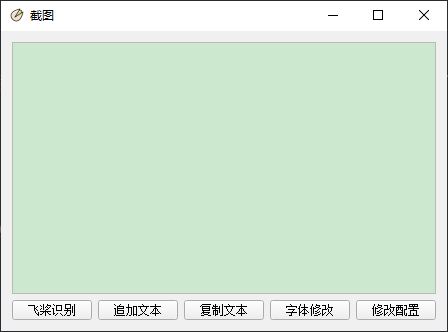
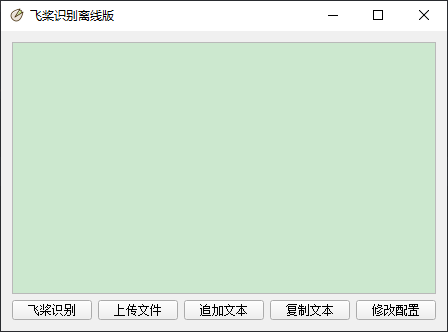
增加自动换行设置 增加上传图片识别，可以多选，但是无法保证顺序。因此单选依次追加比较准确。

diff --git a/pyqt_ocr.py b/pyqt_ocr.py
@@ -4,14 +4,20 @@ import pathlib
 import sys
 import traceback
 
-import keyboard
+# import keyboard
 from PyQt5.QtCore import Qt, pyqtSignal, QByteArray, QBuffer, QIODevice
 from PyQt5.QtGui import QPainter, QIcon, QPixmap, QPen, QColor, QCursor, QFont
-from PyQt5.QtWidgets import QApplication, QPushButton, QWidget, QVBoxLayout, QTextEdit, QAction, QMenu, QSystemTrayIcon, \
-    QHBoxLayout, QLabel, QLineEdit, QGridLayout, QFontDialog, QComboBox, QFileDialog
+from PyQt5.QtWidgets import QApplication, QPushButton, QWidget, QVBoxLayout, QTextEdit, QHBoxLayout, QLabel, QLineEdit, \
+    QGridLayout, QFontDialog, QComboBox, QFileDialog
 
 from ocr_paddle import get_content, init_paddleocr, get_model_config, VERSION, BASE_DIR, confirm_model_dir_url, \
     MODEL_URLS, DEFAULT_MODEL_VERSION
+
+
+def resource_path(relative_path):
+    """ Get absolute path to resource, works for dev and for PyInstaller """
+    base_path = getattr(sys, '_MEIPASS', os.path.dirname(os.path.abspath(__file__)))
+    return os.path.join(base_path, relative_path)
 
 
 class QPixmap2QByteArray(object):
@@ -32,21 +38,17 @@ class QPixmap2QByteArray(object):
         return byte_array
 
 
-def resource_path(relative_path):
-    """ Get absolute path to resource, works for dev and for PyInstaller """
-    base_path = getattr(sys, '_MEIPASS', os.path.dirname(os.path.abspath(__file__)))
-    return os.path.join(base_path, relative_path)
-
-
 class OcrWidget(QWidget):
     oksignal_content = pyqtSignal()
     oksignal_update_config = pyqtSignal()
 
     def __init__(self):
+        # QApplication.setQuitOnLastWindowClosed(False)  # 禁止默认的closed方法，只能使用qapp.quit()的方法退出程序
         super(OcrWidget, self).__init__()
         self.is_add = False
+        self.is_warp = False
         self.config_path = 'config.ini'
-        self.setWindowFlags(Qt.WindowStaysOnTopHint)
+        # self.setWindowFlags(Qt.WindowStaysOnTopHint)
         self.clipboard = QApplication.clipboard()
         self.lang_dict = dict(中文='ch', 中文服务端版='ch_server', 英文='en', 法文='french', 德文='german', 韩文='korean', 日文='japan',
                               中文繁体='chinese_cht', 泰卢固文='te', 卡纳达文='ka', 泰米尔文='ta', 拉丁文='latin', 阿拉伯字母='arabic',
@@ -64,8 +66,12 @@ class OcrWidget(QWidget):
             font = QFont(self.FONT, int(self.FONT_SIZE))
         self.textEdit.setFont(font)
 
+    def set_push_button(self, name, func):
+        btn = QPushButton(name, self)
+        btn.clicked[bool].connect(func)
+        return btn
+
     def init_ui(self):
-        # 窗口大小设置为600*500
         # self.setWindowFlags(Qt.WindowStaysOnTopHint)
         self.setWindowTitle("飞桨识别离线版")
         self.resize(400, 300)
@@ -73,22 +79,20 @@ class OcrWidget(QWidget):
         self.setWindowIcon(QIcon(image_path))
 
         hbox = QHBoxLayout()
-        self.btn = QPushButton('飞桨识别', self, clicked=self.click_btn)
-        self.btn3 = QPushButton('追加文本', self, clicked=self.click_btn3)
-        self.btn_copy = QPushButton('复制文本', self, clicked=self.click_btn_copy)
-        self.btn4 = QPushButton('修改配置', self, clicked=self.click_btn4)
-        self.btn5 = QPushButton('字体修改', self, clicked=self.click_btn5)
-
-        self.btn3.setCheckable(True)
-        # self.btn.clicked.connect(self.click_btn)
-        # self.btn.setShortcut('F4')  # 设置快捷键
-        hbox.addWidget(self.btn)
-        hbox.addWidget(self.btn3)
-        hbox.addWidget(self.btn_copy)
-        hbox.addWidget(self.btn5)
-        hbox.addWidget(self.btn4)
+        ocr_btn = self.set_push_button('飞桨识别', self.click_btn)
+        ocr_btn.setShortcut('F4')  # 设置快捷键
+        add_text_btn = self.set_push_button('追加文本', self.click_btn_add)
+        add_text_btn.setCheckable(True)
+        btn_list = [
+            ocr_btn,
+            self.set_push_button('上传文件', self.click_btn_file),
+            add_text_btn,
+            self.set_push_button('复制文本', self.click_btn_copy),
+            self.set_push_button('修改配置', self.click_btn_config)
+        ]
+        for btn in btn_list:
+            hbox.addWidget(btn)
         hbox.addStretch(1)
-
         vbox = QVBoxLayout()
         self.textEdit = QTextEdit(self)
         self.textEdit.setObjectName("textEdit")
@@ -97,30 +101,15 @@ class OcrWidget(QWidget):
         self.setLayout(vbox)
         self.oksignal_content.connect(lambda: self.set_text_content())
         self.oksignal_update_config.connect(lambda: self.read_config())
-        keyboard.add_hotkey('F4', self.btn.click)
-
-        # self.addSystemTray()  # 设置系统托盘
-
-    def addSystemTray(self):
-        minimizeAction = QAction("Mi&nimize", self, triggered=self.hide)
-        maximizeAction = QAction("Ma&ximize", self, triggered=self.showMaximized)
-        restoreAction = QAction("&Restore", self, triggered=self.showNormal)
-        quitAction = QAction("&Quit", self, triggered=self.close)
-        self.trayIconMenu = QMenu(self)
-        self.trayIconMenu.addAction(minimizeAction)
-        self.trayIconMenu.addAction(maximizeAction)
-        self.trayIconMenu.addAction(restoreAction)
-        self.trayIconMenu.addSeparator()
-        self.trayIconMenu.addAction(quitAction)
-        self.trayIcon = QSystemTrayIcon(self)
-        self.trayIcon.setIcon(QIcon("image\logo.ico"))
-        self.trayIcon.setContextMenu(self.trayIconMenu)
-        self.trayIcon.show()
+        # keyboard.add_hotkey('F5', ocr_btn.click)
 
     def set_text_content(self):
         if self.is_add:
             value = self.textEdit.toPlainText()
-            data = value + '\n' + self.screenshot.content
+            if self.is_warp:
+                data = value + '\n' + self.screenshot.content
+            else:
+                data = value + self.screenshot.content
         else:
             data = self.screenshot.content
         self.textEdit.setText(data)
@@ -128,32 +117,34 @@ class OcrWidget(QWidget):
         self.showNormal()
         self.click_btn_copy()
 
+    def click_btn_file(self):
+        directory = QFileDialog.getOpenFileNames(self, caption="选取多个文件", directory="C:/",
+                                                 filter="All Files (*);;JPEG Files(*.jpg);;PNG Files(*.png)")
+        content = self.textEdit.toPlainText() if self.is_add else ''
+        for path_index, img_path in enumerate(directory[0]):
+            if path_index == 0 and content == "":
+                content += get_content(img_path, self.ocr)
+            elif self.is_warp:
+                content += "\n" + get_content(img_path, self.ocr)
+            else:
+                content += get_content(img_path, self.ocr)
+        self.textEdit.setText(content)
+
     def click_btn(self):
         self.showMinimized()
         self.screenshot = ScreenShotsWin(self.oksignal_content, self)
         # self.screenshot.setWindowFlags(Qt.WindowStaysOnTopHint)
         self.screenshot.showFullScreen()
 
-    def click_btn3(self):
+    def click_btn_add(self):
         if self.is_add:
             self.is_add = False
         else:
             self.is_add = True
 
-    def click_btn4(self):
+    def click_btn_config(self):
         self.update_config = UpdateConfig(self.oksignal_update_config, self)
         self.update_config.show()
-
-    def click_btn5(self):
-        font, isok = QFontDialog.getFont(QFont(self.FONT, int(self.FONT_SIZE)), self)
-        if isok:
-            self.FONT = str(font.family())
-            self.FONT_SIZE = str(font.pointSize())
-            self.config.set("paddleocr", "FONT", self.FONT)
-            self.config.set("paddleocr", "FONT_SIZE", self.FONT_SIZE)
-            with open(self.config_path, "w+", encoding='utf8') as f:
-                self.config.write(f)
-            self.set_font(font)
 
     def click_btn_copy(self):
         value = self.textEdit.toPlainText()
@@ -171,7 +162,8 @@ class OcrWidget(QWidget):
                 f.write(f'DET_PATH = {det_path}\n')
                 f.write(f'REC_PATH = {rec_path}\n')
                 f.write('FONT = Arial\n')
-                f.write('FONT_SIZE = 12')
+                f.write('FONT_SIZE = 12\n')
+                f.write('WARP = 否')
 
     def read_config(self):
         if not os.path.isfile(self.config_path):
@@ -186,10 +178,15 @@ class OcrWidget(QWidget):
         cls_path = paddleocr['CLS_PATH']
         det_path = paddleocr['DET_PATH']
         rec_path = paddleocr['REC_PATH']
+        WARP = paddleocr['WARP']
         self.FONT = paddleocr['FONT']
         self.FONT_SIZE = paddleocr["FONT_SIZE"]
         self.ocr = init_paddleocr(lang=self.lang_dict.get(lang, 'ch'), cls_model_dir=cls_path, det_model_dir=det_path,
                                   rec_model_dir=rec_path)
+        if WARP == "是":
+            self.is_warp = True
+        else:
+            self.is_warp = False
         return self.ocr
 
     def download_path(self, model, lang):
@@ -305,6 +302,7 @@ class UpdateConfig(QWidget):
         self.setWindowFlags(Qt.WindowStaysOnTopHint)
         self.OcrWidget = OcrWidget
 
+        self.font = ''
         self.cls_path = ''
         self.det_path = ''
         self.rec_path = ''
@@ -318,48 +316,49 @@ class UpdateConfig(QWidget):
         self.setWindowIcon(QIcon(image_path))
         self.init_ui()
 
-    def btn_cls_choose_file(self):
-        self.cls_path = QFileDialog.getExistingDirectory(None, "选取文件夹", self.paddleocr.get('CLS_PATH') or "C:/")  # 起始路径
-        self.cls_file_btn.setText(self.cls_path)
-
-    def btn_det_choose_file(self):
-        self.det_path = QFileDialog.getExistingDirectory(None, "选取文件夹", self.paddleocr.get('DET_PATH') or "C:/")  # 起始路径
-        self.det_file_btn.setText(self.det_path)
-
-    def btn_rec_choose_file(self):
-        self.rec_path = QFileDialog.getExistingDirectory(None, "选取文件夹", self.paddleocr.get('REC_PATH') or "C:/")  # 起始路径
-        self.rec_file_btn.setText(self.rec_path)
+    def set_push_button(self, name, func):
+        btn = QPushButton(name, self)
+        btn.clicked[bool].connect(func)
+        return btn
 
     def init_ui(self):
         lang = QLabel('识别语言：')
         cls = QLabel('cls模型路径：')
         det = QLabel('det模型路径：')
         rec = QLabel('rec模型路径：')
+        auto_warp = QLabel('自动换行：')
+        font_size = QLabel('字体设置：')
         author = QLabel('作者：')
         github_url = QLabel('github：')
         paddleocr_github_url = QLabel('paddleocr:')
-
         self.lang_Box = QComboBox()
+        self.auto_warp_box = QComboBox()
 
-        self.cls_file_btn = QPushButton(self.paddleocr.get('CLS_PATH') or '选择cls模型路径', self,
-                                        clicked=self.btn_cls_choose_file)
-        self.det_file_btn = QPushButton(self.paddleocr.get('DET_PATH') or '选择det模型路径', self,
-                                        clicked=self.btn_det_choose_file)
-        self.rec_file_btn = QPushButton(self.paddleocr.get('REC_PATH') or '选择rec模型路径', self,
-                                        clicked=self.btn_rec_choose_file)
+        self.font_btn = self.set_push_button(
+            f"字体：{self.paddleocr.get('FONT')}  大小：{self.paddleocr.get('FONT_SIZE')}" or '字体修改', self.click_btn_font)
+        self.cls_file_btn = self.set_push_button(self.paddleocr.get('CLS_PATH') or '选择cls模型路径',
+                                                 self.btn_cls_choose_file)
+        self.det_file_btn = self.set_push_button(self.paddleocr.get('DET_PATH') or '选择det模型路径',
+                                                 self.btn_det_choose_file)
+        self.rec_file_btn = self.set_push_button(self.paddleocr.get('REC_PATH') or '选择rec模型路径',
+                                                 self.btn_rec_choose_file)
         self.author_Edit = QLineEdit()
         self.github_url_Edit = QLineEdit()
         self.paddleocr_github_url_Edit = QLineEdit()
+
         # 设置默认值
         for key in self.OcrWidget.lang_dict.keys():
             self.lang_Box.addItem(key)
         # self.lang_Box.setCurrentIndex(list(self.OcrWidget.lang_dict.keys()).index(self.paddleocr.get('LANG')))
         self.lang_Box.setCurrentText(self.paddleocr.get('LANG', '中文'))
 
+        self.auto_warp_box.addItem('否')
+        self.auto_warp_box.addItem('是')
+        self.auto_warp_box.setCurrentText(self.paddleocr.get('WARP', '否'))
+
         self.author_Edit.setText("libaibuaidufu")
         self.github_url_Edit.setText("https://github.com/libaibuaidufu/pyqt_ocr")
         self.paddleocr_github_url_Edit.setText("https://github.com/PaddlePaddle/PaddleOCR")
-        # self.secret_key_Edit2.setDisabled(True)
 
         grid = QGridLayout()
         grid.setSpacing(10)
@@ -368,6 +367,8 @@ class UpdateConfig(QWidget):
             cls: self.cls_file_btn,
             det: self.det_file_btn,
             rec: self.rec_file_btn,
+            auto_warp: self.auto_warp_box,
+            font_size: self.font_btn,
             author: self.author_Edit,
             github_url: self.github_url_Edit,
             paddleocr_github_url: self.paddleocr_github_url_Edit
@@ -380,17 +381,40 @@ class UpdateConfig(QWidget):
 
         vbox = QVBoxLayout()
         hbox = QHBoxLayout()
-        self.btn = QPushButton('保存', self, clicked=self.save_config)
-        self.reset_btn = QPushButton('恢复默认', self, clicked=self.reset_config)
+        btn = self.set_push_button('保存', self.save_config)
+        reset_btn = self.set_push_button('恢复默认', self.reset_config)
+
         vbox.addLayout(grid)
         hbox.addStretch(1)
-        hbox.addWidget(self.reset_btn)
-        hbox.addWidget(self.btn)
+        hbox.addWidget(reset_btn)
+        hbox.addWidget(btn)
         vbox.addLayout(hbox)
         self.setLayout(vbox)
 
         self.setGeometry(300, 300, 350, 300)
         self.setWindowTitle('修改OCR配置')
+
+    def btn_cls_choose_file(self):
+        self.cls_path = QFileDialog.getExistingDirectory(None, "选取文件夹", self.paddleocr.get('CLS_PATH') or "C:/")  # 起始路径
+        self.cls_file_btn.setText(self.cls_path)
+
+    def btn_det_choose_file(self):
+        self.det_path = QFileDialog.getExistingDirectory(None, "选取文件夹", self.paddleocr.get('DET_PATH') or "C:/")  # 起始路径
+        self.det_file_btn.setText(self.det_path)
+
+    def btn_rec_choose_file(self):
+        self.rec_path = QFileDialog.getExistingDirectory(None, "选取文件夹", self.paddleocr.get('REC_PATH') or "C:/")  # 起始路径
+        self.rec_file_btn.setText(self.rec_path)
+
+    def click_btn_font(self):
+        font_name = self.paddleocr.get('FONT')
+        font_size = self.paddleocr.get('FONT_SIZE')
+        font, isok = QFontDialog.getFont(QFont(font_name, int(font_size)), self)
+        if isok:
+            self.font = font
+            font_name = str(self.font.family())
+            font_size = str(self.font.pointSize())
+            self.font_btn.setText(f"字体：{font_name}，大小：{font_size}")
 
     def reset_config(self):
         if os.path.isfile(self.config_path):
@@ -401,6 +425,12 @@ class UpdateConfig(QWidget):
 
     def save_config(self):
         try:
+            if self.font:
+                self.config.set("paddleocr", "FONT", str(self.font.family()))
+                self.config.set("paddleocr", "FONT_SIZE", str(self.font.pointSize()))
+                self.OcrWidget.set_font(self.font)
+            self.config.set("paddleocr", "WARP", self.auto_warp_box.currentText())
+
             self.config.set("paddleocr", "LANG", self.lang_Box.currentText())
             if self.lang_Box.currentText() != self.LANG:
                 lang = self.OcrWidget.lang_dict.get(self.lang_Box.currentText())

diff --git a/ocr_paddle.py b/ocr_paddle.py
@@ -13,6 +13,7 @@ import traceback
 
 import numpy as np
 from PIL import Image
+from PyQt5.QtCore import QByteArray
 from paddleocr import PaddleOCR
 
 VERSION = "paddleocr_offline_v1"
@@ -164,7 +165,12 @@ def init_paddleocr(lang='ch', cls_model_dir='', det_model_dir='', rec_model_dir=
 
 def get_content(img, ocr):
     try:
-        img = np.array(Image.open(io.BytesIO(img.data())))
+        if isinstance(img, QByteArray):
+            img = np.array(Image.open(io.BytesIO(img.data())))
+        elif isinstance(img, str):
+            img = np.array(Image.open(img))
+        else:
+            return "识别程序出错了！"
         dt_boxes, rec_res = ocr(img, cls=True)
         dt_num = len(dt_boxes)
         rec_res_final = []
